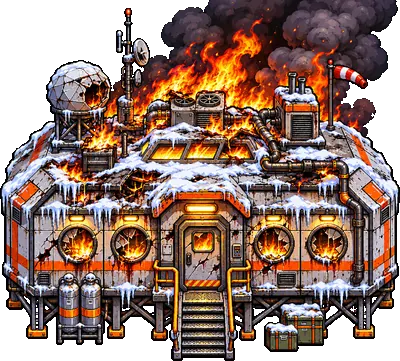
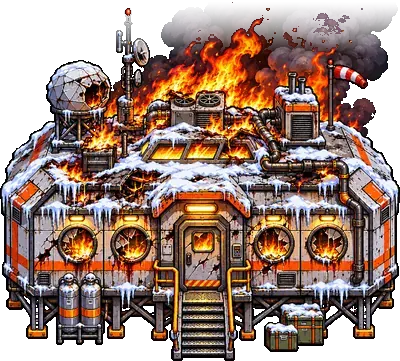
Smoke for the fires (user's art): burning lab roof, Abomination puddles, slam scorch, Sundering
Claude-Session: https://claude.ai/code/session_01DZ7TQ884r4s3ytnVNv4XVF

diff --git a/client/client.js b/client/client.js
@@ -1539,7 +1539,7 @@ function drawAbomSunder(z, t, gy, now, tele) {
   ctx.save(); ctx.fillStyle = "rgba(0,0,0,.45)"; ctx.beginPath(); ctx.ellipse(z.x, gy, 70 + 55 * sm((t - 1.4) / 1.2), 17, 0, 0, 7); ctx.fill(); ctx.restore();
   bossGlow(z.x, gy - 80, ABM.lava, 90 + 70 * heat + 50 * flash - 80 * cool, Math.min(1, .35 + .4 * heat + .3 * flash) * (1 - .65 * cool));
   if (t < 1.5) aFx("fxEmber", t / 1.5 * 8, z.x, gy - 80, 1.2 + .4 * heat, .4 + .5 * heat);   // sparks gathering before the tear
-  if (t < 2.9) { const fa = Math.min(1, t / .5) * (1 - sm((t - 2.2) / .7)), tt = now / 1000; drawFire3(2, z.x, gy + 10, 1.25, 1.3, tt, fa * .9); drawFire3(1, z.x - 78, gy + 4, .8, 4.1, tt, fa * .8); drawFire3(1, z.x + 80, gy + 4, .8, 6.2, tt, fa * .8); }   // the ground burns under him
+  if (t < 2.9) { const fa = Math.min(1, t / .5) * (1 - sm((t - 2.2) / .7)), tt = now / 1000; drawSmoke3(z.x, gy - 30, 1.9, 2.2, tt, fa * .7); drawFire3(2, z.x, gy + 10, 1.25, 1.3, tt, fa * .9); drawFire3(1, z.x - 78, gy + 4, .8, 4.1, tt, fa * .8); drawFire3(1, z.x + 80, gy + 4, .8, 6.2, tt, fa * .8); }   // the ground burns under him
   const keys = [[0, 0], [.55, 1], [1.15, 2], [1.7, 3], [2.25, 4], [2.85, 5], [99, 5]]; let a = 0; while (a < keys.length - 2 && t >= keys[a + 1][0]) a++;
   const span = keys[a + 1][0] - keys[a][0], k = sm((t - keys[a][0] - span * .25) / (span * .75)), settled = sm((t - 1.6) / .5);   // each frame holds for a beat, then eases into the next
   const jx = (Math.random() - .5) * (1 + 4 * heat) * (1 - settled), pulse = 1 + .03 * heat * (1 - settled) * Math.sin(t * (9 + 10 * heat)) + .04 * flash;
@@ -1586,11 +1586,11 @@ function drawAbomGround() {   // lava puddles + the roll lane (under everyone)
     ctx.beginPath(); ctx.rect(0, -m.hw, m.len, m.hw * 2); ctx.fill(); ctx.stroke(); ctx.restore();
   }
 }
-function drawAbomFlames() { const t = performance.now() / 1000; for (const [x, y, sc, k, ph, a] of abFlames) if (inView(x, y, 140)) drawFire3(k, x, y, sc, ph, t, a); abFlames.length = 0; }   // after the ground, before the sprites
+function drawAbomFlames() { const t = performance.now() / 1000; for (const [x, y, sc, k, ph, a] of abFlames) if (inView(x, y, 140)) { if (k) drawSmoke3(x, y - 14, sc * .95, ph, t, a * .8); drawFire3(k, x, y, sc, ph, t, a); } abFlames.length = 0; }   // after the ground, before the sprites
 function drawAbomFx(f, age) {   // false when finished
   const s = age / 1000;
   if (f.k === "slamfx") { const from = f.from || 0, T = from ? 1.0 : 1.7; if (s > T) return false; aFx("fxSlam", from + s / T * (24 - from), f.x, f.y, f.sc); return true; }
-  if (f.k === "scorch") { if (s > 1.6) return false; const a = s < .15 ? s / .15 : Math.max(0, 1 - (s - .5) / 1.1); drawFire3(2, f.x, f.y + 26, 1.25 * (.7 + .3 * a), f.x * .01, performance.now() / 1000, a); return true; }   // the ground burns for a moment where the arm landed
+  if (f.k === "scorch") { if (s > 1.6) return false; const a = s < .15 ? s / .15 : Math.max(0, 1 - (s - .5) / 1.1); drawSmoke3(f.x, f.y, 1.3, f.x * .01, performance.now() / 1000, a * .8); drawFire3(2, f.x, f.y + 26, 1.25 * (.7 + .3 * a), f.x * .01, performance.now() / 1000, a); return true; }   // the ground burns for a moment where the arm landed
   if (f.k === "ember") { const from = f.from || 0, T = 1.5; if (s > T) return false; aFx("fxEmber", from + s / T * (24 - from), f.x, f.y, f.sc); return true; }
   if (f.k === "lava") {   // the stream: start set while it reaches out, loop set while he spews, end set as it dies
     const e = s - f.wind; if (e < 0) return true; if (e > f.dur + .45) return false;
@@ -3588,11 +3588,11 @@ function dynPieceFx(d, a) {
     ctx.globalCompositeOperation = "lighter"; ctx.globalAlpha = 1;
     const g = ctx.createRadialGradient(x, y, 2, x, y, 46 * s); g.addColorStop(0, `rgba(255,150,50,${.4 * k})`); g.addColorStop(1, "rgba(255,90,20,0)"); ctx.fillStyle = g; ctx.fillRect(x - 46 * s, y - 46 * s, 92 * s, 92 * s);
     ctx.globalCompositeOperation = "source-over"; if (a.anim) return;   // the art already burns: only the glow
-    if ((i === 0 || (i < 3 && d.kind[0] === "w")) && mapFireImg.naturalWidth) for (let j = 0; j < 4; j++) {   // smoke from the biggest fire (the three biggest on Whiteout Station's burning lab)
+    if (i === 0 && d.kind[0] !== "w" && mapFireImg.naturalWidth) for (let j = 0; j < 4; j++) {   // smoke from the biggest fire (Whiteout Station pieces use drawSmoke3 below)
       const u = (t * .08 + j / 4 + seed * .01) % 1, r = (18 + u * 50) * s;
       ctx.globalAlpha = .55 * Math.sin(u * Math.PI); ctx.drawImage(mapFireImg, 0, MFIRE.h, MFIRE.puff, MFIRE.puff, x + u * 24 * s - r / 2, y - 20 * s - u * 130 * s - r / 2, r, r);
     }
-    if (d.kind[0] === "w") drawFire3(a.fires[i][3] ?? 1, x, y, s, i * 2.3 + seed, t);   // Whiteout Station: the user's own fire loops
+    if (d.kind[0] === "w") { if (s >= .7) drawSmoke3(x, y - 20 * s, s * 1.15, i * 1.7 + seed, t); drawFire3(a.fires[i][3] ?? 1, x, y, s, i * 2.3 + seed, t); }   // the user's own fire loops, smoke behind the bigger ones
     else drawFireSprite(x, y + 10 * s, s * .62, i * 5 + seed, t, .95);
   });
   if (a.lights) {   // lanterns / lit windows: soft warm halo that breathes and now and then stutters
@@ -3635,6 +3635,18 @@ function bossGlow(x, y, rgb, r, alpha) {
 function flashDraw(flashing, draw) { draw(); if (flashing) { const op = ctx.globalCompositeOperation; ctx.globalCompositeOperation = "lighter"; draw(); draw(); ctx.globalCompositeOperation = op; } }
 // The user's three fire loops (tools/extract-fire3.py): 0 small, 1 medium, 2 big; 8 frames each, transparent, base = bottom centre of the cell.
 const FIRE3 = [["assets/sprites/fx/fire3-s.webp", 84, 112], ["assets/sprites/fx/fire3-m.webp", 116, 127], ["assets/sprites/fx/fire3-b.webp", 176, 144]].map(([url, w, h]) => { const im = new Image(); im.src = url; return { im, w, h }; });
+// The user's smoke (smoke3.webp: 8 frames in which the cloud builds). Each puff plays through once while it rises, swells and fades; three
+// puffs a step apart keep a steady column. Drawn BEHIND the flames. (x, y) = the base of the fire.
+const SMOKE3 = { im: new Image(), w: 150, h: 151 }; SMOKE3.im.src = "assets/sprites/fx/smoke3.webp";
+function drawSmoke3(x, y, sc, phase, t, alpha = 1) {
+  const S = SMOKE3; if (!S.im.naturalWidth) return; ctx.save(); ctx.imageSmoothingEnabled = true;
+  for (let j = 0; j < 3; j++) {
+    const u = (t * .16 + j / 3 + phase * .37) % 1, ft = u * 7.99, f = Math.floor(ft), k = (.75 + .7 * u) * sc, w = S.w * k, h = S.h * k, a = Math.min(1, u * 6) * (1 - u) ** 1.3 * alpha;
+    const px_ = x + (u * 26 + Math.sin(u * 5 + j * 2 + phase) * 6) * sc, py_ = y - (10 + u * 95) * sc;   // drifts up and a little downwind
+    ctx.globalAlpha = a * .85; blendCells(S.im, 0, 0, S.w, S.h, f, Math.min(7, f + 1), ft - f, px_ - w / 2, py_ - h, w, h);
+  }
+  ctx.restore();
+}
 function drawFire3(kind, x, y, sc, phase, t, alpha = 1) {   // (x, y) = the base of the flame; cross-faded frame to frame, with a soft additive pass so it glows
   const F = FIRE3[kind] || FIRE3[1]; if (!F.im.naturalWidth) return; const ft = t * 9 + phase, f = Math.floor(ft) % 8, f2 = (f + 1) % 8, w = F.w * sc, h = F.h * sc;
   ctx.save(); ctx.imageSmoothingEnabled = true; ctx.globalAlpha = alpha; blendCells(F.im, 0, 0, F.w, F.h, f, f2, ft - Math.floor(ft), x - w / 2, y - h, w, h);

diff --git a/client/index.html b/client/index.html
@@ -533,5 +533,5 @@ body.in-match #ls{display:none}
 <div id="spectate" class="spectate hidden" aria-live="polite"><b id="specTitle"></b><span><span id="specWho"></span><small id="specHint"> · Space / ← → / click to switch</small></span></div>
  <div id="overlay" class="overlay hidden"><div class="modal"><div style="font-size:42px">☣</div><h2 id="overlayTitle"></h2><p class="muted" id="overlayText"></p><div id="shop" class="shop hidden" aria-label="Shop"></div><div id="breakBtns" class="break-btns hidden"><button class="button primary" id="breakReady">READY</button><button class="button" id="breakMin">▾ MINIMIZE · BUILD FIRST</button><button class="button hidden" id="nextStage">START NOW</button></div><button class="button primary hidden" id="restartGame">PLAY AGAIN</button></div></div>
 </section>
-<script type="module" src="./client.js?v=20261110m"></script>
+<script type="module" src="./client.js?v=20261110n"></script>
 </body></html>

diff --git a/tools/extract-fire3.py b/tools/extract-fire3.py
@@ -17,3 +17,15 @@ for name, key, width in [('small', 's', 84), ('medium', 'm', 116), ('big', 'b', 
         fade = np.clip(np.minimum(np.arange(c.shape[1]), np.arange(c.shape[1])[::-1]) / 10, 0, 1)[None, :]; a = a * fade   # no hard cut at the sides
         im = Image.fromarray(np.dstack([rgb, a * 255]).astype(np.uint8)).resize((cw, ch), Image.LANCZOS); sheet.paste(im, (i * cw, 0))
     p = os.path.join(OUT, f'fire3-{key}.webp'); sheet.save(p, quality=80, alpha_quality=85, method=6); print(name, 'cell', cw, 'x', ch, 'frames', len(fr), os.path.getsize(p) // 1024, 'KB')
+
+# The user's smoke GIF (smoke.gif, 8 frames on black): not a loop, the cloud BUILDS over the 8 frames. Saved as one row of 8 transparent
+# frames (alpha = brightness, colour = dark grey shaded by brightness); the game plays each puff through once while it rises and fades.
+g = Image.open(os.path.join(ART, 'smoke.gif')); fr = []
+for i in range(g.n_frames): g.seek(i); fr.append(np.array(g.convert('L')).astype(float))
+lum = np.max(fr, 0); ys, xs = np.where(lum > 12); x0, x1, y0, y1 = xs.min(), xs.max() + 1, ys.min(), ys.max() + 1
+cw = 150; sc = cw / (x1 - x0); ch = round((y1 - y0) * sc); sheet = Image.new('RGBA', (cw * len(fr), ch))
+for i, f in enumerate(fr):
+    c = f[y0:y1, x0:x1]; a = np.clip((c - 6) / 70, 0, 1) ** .8; n = c.shape[1]; a = a * np.clip(np.minimum(np.arange(n), np.arange(n)[::-1]) / 14, 0, 1)[None, :]
+    a = a * np.clip(np.arange(c.shape[0]) / 14, 0, 1)[:, None]; v = np.clip(26 + c * .75, 0, 110)
+    im = Image.fromarray(np.dstack([v, v, v * 1.03, a * 255]).clip(0, 255).astype(np.uint8)).resize((cw, ch), Image.LANCZOS); sheet.paste(im, (i * cw, 0))
+p = os.path.join(OUT, 'smoke3.webp'); sheet.save(p, quality=72, alpha_quality=80, method=6); print('smoke cell', cw, 'x', ch, os.path.getsize(p) // 1024, 'KB')

diff --git a/tools/extract-whiteout.py b/tools/extract-whiteout.py
@@ -82,6 +82,9 @@ for k, (w, nl) in BIG.items(): save('w' + k[0].upper() + k[1:], load('big-' + k 
 # glow and embers at the fire spots found here (same as Fallen Dynasty's burnt shops). Cutting the painted smoke cloud away was tried and
 # dropped: it is the same dark grey as the roof machinery and took pieces of the building with it.
 save('wLabBurnt', load('big-labBurnt.png'), 400, 0, 7)
+# the painted smoke cloud runs off the top of the picture (a flat cut): fade its top edge out so the game's rising smoke takes over
+_p = os.path.join(OUT, 'wLabBurnt.webp'); _a = np.array(Image.open(_p).convert('RGBA')).astype(float); _r = np.clip(np.arange(_a.shape[0]) / 54, 0, 1) ** 1.4
+_dark = (_a[..., 0] < 120) & (np.abs(_a[..., 0] - _a[..., 2]) < 40); _a[..., 3] = np.where(_dark, _a[..., 3] * _r[:, None], _a[..., 3]); Image.fromarray(_a.astype(np.uint8)).save(_p, quality=Q, method=6, alpha_quality=85)
 # fires placed by hand (base of each flame, from the bottom centre): [x, y, size, which loop 0 small / 1 medium / 2 big]: four windows, the door, the roof
 pieces['wLabBurnt']['fires'] = [[-122, -112, .5, 0], [-69, -112, .5, 0], [72, -112, .5, 0], [125, -112, .5, 0], [2, -118, .45, 0], [-98, -214, .8, 1], [116, -232, .75, 1], [12, -236, 1.05, 2], [-30, -190, .7, 1]]
 

diff --git a/HANDOFF.md b/HANDOFF.md
@@ -382,3 +382,10 @@ Jump to wave, spawn 5 of each zombie, spawn Hivemind, boss intro now, boss to 25
 - Whiteout Station's burning lab: fires placed BY HAND in the extractor (`pieces['wLabBurnt']['fires']` = [x, y, size, loop]): all four windows, the door, four on the roof. `dynPieceFx` uses drawFire3 for "w" pieces (other maps keep fire-loop.webp).
 - Abomination: flames on every lava puddle (`abFlames`, drawn by `drawAbomFlames` after the ground), the ground burns for ~1.5s where the Flail Slam lands (fx k "scorch"), and fire burns under him while he tears apart. His lava stream / slam disc / ember art is unchanged.
 - Cache: client.js?v=20261110m. Preview 14.7 MB.
+
+## Nov 10 (n): the user's smoke for the fires
+- tools/art/fire3/smoke.gif (8 frames, the cloud builds, not a loop) -> extract-fire3.py -> sprites/fx/smoke3.webp (8 transparent frames, 150x151). Client `drawSmoke3(x, y, scale, phase, t, alpha)`: three puffs a step apart, each plays the 8 frames once while rising, swelling and fading; drawn behind the flames.
+- Used on: the burning lab's roof fires (size >= .7), the Abomination's lava puddles (the medium flame), his slam scorch and under him during the Sundering.
+- The lab's painted smoke cloud ran off the top of the picture with a flat edge: its top 54px now fade out (extract-whiteout.py).
+- Next map agreed: SCORCHED REFINERY (desert oil refinery, bright, NO tint, open layout). Prompts in the project doc claude/desert-refinery-map.md; waiting for the user's art (13 images).
+- Cache: client.js?v=20261110n.
